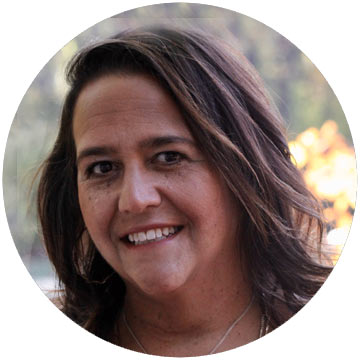
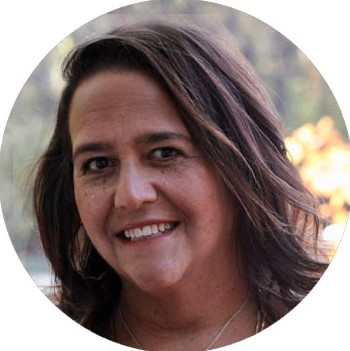
Team member cards

diff --git a/btb-client/src/routes/About.jsx b/btb-client/src/routes/About.jsx
@@ -1,6 +1,6 @@
 import React, { useState } from 'react'
 
-import { Button, Card, Text, } from "@nextui-org/react";
+import { Button, Card, Spacer, Text, } from "@nextui-org/react";
 
 import "../assets/style/about.css"
 import { PageHeader, OrangeBar } from '../components/Bar';
@@ -9,8 +9,15 @@ import nancyMager from "../assets/images/nancy-mager.jpg"
 import ourMethods from "../assets/images/they-feast.jpeg"
 import wall from "../assets/images/about-our-center-wall3.jpg"
 
+import davidKim from "../assets/images/staff/davidKim.jpg"
+import jasonBrown from "../assets/images/staff/jasonBrown.jpg"
+import jessicaReynolds from "../assets/images/staff/jessicaReynolds.jpg"
+import lisaMartinez from "../assets/images/staff/lisaMartinez.jpg"
+import matthewBroderick from "../assets/images/staff/matthewBroderick.jpg"
+import rachelGarcia from "../assets/images/staff/rachelGarcia.jpg"
 
 import { FormModal } from "../components/Forms";
+import { btbOrange } from '../assets/style/colors';
 
 export default function About() {
 
@@ -56,7 +63,7 @@ export default function About() {
             </Text>
           </div>
           <div className="col-xxl-6 col-xl-12" >
-            <img src={homeworkSpace} alt="about-us-homework-space" style={{width: "100%", height: "100%", maxWidth: "80vw" ,objectFit: "cover"}} />
+            <img src={homeworkSpace} className="img-shadow" alt="about-us-homework-space" style={{width: "100%", height: "100%", maxWidth: "80vw" ,objectFit: "cover"}} />
           </div>
         </div>
       </section>
@@ -64,7 +71,7 @@ export default function About() {
       <section className="container-fluid p-5" id="meet-the-team">
         <div className="row d-flex flex-row justify-content-center align-items-center">
           <div className="col-xxl-3 col-xl-6">
-            <img src={nancyMager} alt="nancy-mager" />
+            <img src={nancyMager} className="img-shadow img-round" alt="nancy-mager" />
           </div>
           <div className="col-xxl-6 col-xl-12 about-text">
               <Text h1 color="primary">
@@ -78,10 +85,16 @@ export default function About() {
               </Text>
           </div>
         </div>
+        <Text h1 color="primary">
+          And our Amazing Staff
+        </Text>
+        <div className="row d-flex flex-row justify-content-center align-items-center">
+          { renderTeam() }
+        </div>
       </section>
       <section className="container-fluid bg-blue" id="our-methods">
         <div className="row">
-          <div className="col-xl-6 col-;g-12 about-text">
+          <div className="col-xl-6 col-lg-12 about-text">
             <Text h1 color="white">
               Our Methods
             </Text>
@@ -93,14 +106,14 @@ export default function About() {
             </Text>
           </div>
           <div className="col-xl-6 d-none d-xl-flex" >
-            <img src={ourMethods} alt="our-methods" style={{height: "100%", width: "50vw", objectFit: "fill"}}/>
+            <img src={ourMethods} className="img-shadow" alt="our-methods" style={{padding: "1rem", height: "100%", width: "50vw", objectFit: "fill"}}/>
           </div>
         </div>
       </section>
       <section className="container-fluid p-5 section-header" id="our-learning-center">
         <div className="row">
           <div className="col-xl-6 col-lg-12" >
-            <img src={wall} alt="about-us-homework-space" style={{width: "auto", height: "100%", objectFit: "cover"}} />
+            <img src={wall} className="img-shadow" alt="about-us-homework-space" style={{width: "auto", height: "100%", objectFit: "cover"}} />
           </div>
           <div className="col-xl-6 col-lg-12 about-text">
             <Text h1 color="primary">
@@ -128,4 +141,81 @@ export default function About() {
       <FormModal open={modalOpen} setOpen={setModalOpen}/>
     </div>
   )
+}
+
+const teamMembers = [
+  {
+    order: 1,
+    name: "Jessica Reynolds",
+    position: "English Tutor",
+    image: jessicaReynolds,
+    bio: "Jessica is an English tutor with a Master's in English Literature. She is passionate about teaching and has been working with students for 7 years. Her focus is on improving students' writing skills and helping them appreciate literature. Jessica believes that good communication skills are essential for success in any field. Outside of the tutoring center, she is an avid reader and loves to write short stories."
+  },
+  {
+    order: 2,
+    name: "David Kim",
+    position: "Science Tutor",
+    image: davidKim,
+    bio: "David is a Science Tutor, specializing in Physics and Chemistry. He has a Master's degree in Chemical Engineering. His scientific background allows him to make science engaging and relatable to students. David has a talent for breaking down complicated concepts into easy-to-understand language. When he’s not teaching, David enjoys tinkering with electronics and playing the guitar."
+  },
+  {
+    order: 6,
+    name: "Lisa Martinez",
+    position: "Administrative Assistant",
+    image: lisaMartinez,
+    bio: "Lisa is the Administrative Assistant and a crucial part of the team. She has been with the center for 3 years, ensuring that operations run efficiently. Her organizational skills and attention to detail keep the center in top shape. Lisa is usually the first point of contact for parents and students, and she’s known for her warm and friendly demeanor. In her leisure time, she enjoys painting and taking nature walks."
+  },
+  {
+    order: 5,
+    name: "Matthew Broderick",
+    position: "Math Tutor",
+    image: matthewBroderick,
+    bio: "Matthew Broderick, renowned for his illustrious career in acting, has joined Beyond The Bell as a Math Tutor. Surprising to many, Matthew has a deep-seated love for mathematics and decided to make a career change to pursue this passion. With his charisma and ability to perform, he makes learning math an incredibly engaging experience for students. He believes in making a difference in the lives of the youth and takes immense joy in witnessing their progress. When not tutoring, he sometimes reminisces about his acting days and shares exciting stories with students and staff."
+  },
+  {
+    order: 4,
+    name: "Jason Brown",
+    position: "SAT/ACT Prep Tutor",
+    image: jasonBrown,
+    bio: "Jason is specialized in SAT and ACT prep, and has been a tutor for over 6 years. He has a degree in Psychology, which he utilizes to understand students' learning patterns and adapt his teaching methods. Jason is passionate about equipping students with the strategies and confidence needed to excel in standardized tests. He is also a basketball enthusiast and coaches a local youth team in his spare time."
+  },
+  {
+    order: 3,
+    name: "Rachel Garcia",
+    position: "Academic Advisor",
+    image: rachelGarcia,
+    bio: "Rachel serves as an Academic Advisor at the center. With a background in Counseling, she plays a vital role in helping students plan their educational path. She believes that proper guidance is essential for students to make informed decisions regarding their academic and career goals. Rachel is also an advocate for mental health and conducts workshops for stress management."
+  }
+]
+
+function renderTeam() {
+
+  const sortedTeamMembers = teamMembers.sort((a, b) => a.order - b.order);
+
+  return sortedTeamMembers.map((teamMember, index) => {
+    return (
+      <Card 
+        isHoverable 
+        isPressable 
+        className="m-2 p-3 d-flex flex-column align-items-center col-xxl-3 col-xl-4 col-md-6 col-sm-12"
+      >
+        <Card.Body className="d-flex flex-row gap-4 align-items-center w-100 justify-content-center">
+          <img src={teamMember.image} alt={teamMember.name} className="img-shadow img-round" style={{width: "10rem", height: "10rem"}}/>
+          <div className="w-100 d-flex flex-column align-items-center">
+            <Text size="$lg" b >
+              {teamMember.name}
+            </Text>
+            <Text>
+              {teamMember.position}
+            </Text>
+          </div>
+        </Card.Body>
+        <Card.Footer className="w-100 d-flex flex-row justify-content-center">
+          <Button bordered>
+            Read More
+          </Button>
+        </Card.Footer>
+      </Card>
+    )
+  })
 }

diff --git a/btb-client/src/routes/Services.jsx b/btb-client/src/routes/Services.jsx
@@ -86,7 +86,7 @@ export default function Services() {
                   </Text>
                 </div>
                 <div className="col-xxl-6 col-xl-12">
-                  <img src={afterSchool} alt="after-school" className="service-image"/>
+                  <img src={afterSchool} alt="after-school" className="service-image img-shadow"/>
                 </div>
               </div>
               <div className="row">
@@ -147,7 +147,7 @@ export default function Services() {
                   </Text>
                 </div>
                 <div className="col-xxl-6 col-xl-12">
-                  <img src={tutoring} alt="private-tutoring" className="service-image"/>
+                  <img src={tutoring} alt="private-tutoring" className="service-image img-shadow"/>
                 </div>
               </div>
               <div className="row">
@@ -203,7 +203,7 @@ export default function Services() {
                   </Text>
                 </div>
                 <div className="col-xxl-6 col-xl-12">
-                  <img src={dyslexia} alt="wilson-tutoring" className="service-image"/>
+                  <img src={dyslexia} alt="wilson-tutoring" className="service-image img-shadow"/>
                 </div>
               </div>
               <div className="row">

diff --git a/btb-client/src/routes/ThankYou.jsx b/btb-client/src/routes/ThankYou.jsx
@@ -1,0 +1,21 @@
+import React from 'react'
+
+import { Text, } from "@nextui-org/react";
+
+import "../assets/style/services.css"
+import { PageHeader, } from '../components/Bar';
+import thankYou from "../assets/images/thankyou.jpg"
+
+export default function ThankYou() {
+  return (
+    <div className="d-flex flex-column align-items-center">
+      <PageHeader text="Thank You" />
+      <section className="d-flex flex-column align-items-center justify-content-center m-5 w-80">
+        <Text>
+          Thank you for contacting us. We look forward to speaking with you and hearing more about how we can be of assistance. We will be in touch with you soon.
+        </Text>
+        <img src={thankYou} alt="thank-you" className="img-shadow"/>
+      </section>
+    </div>
+  )
+}

diff --git a/btb-client/src/App.jsx b/btb-client/src/App.jsx
@@ -9,6 +9,7 @@ import Footer from './components/Footer';
 import About from './routes/About';
 import Services from './routes/Services';
 import Contact from './routes/Contact';
+import ThankYou from './routes/ThankYou';
 
 function App() {
   return (
@@ -21,6 +22,7 @@ function App() {
             <Route path="/about" element={<About />} />
             <Route path="/services" element={<Services />} />
             <Route path="/contact" element={<Contact />} />
+            <Route path="/thank-you" element={<ThankYou />} />
           </Routes>
         </Router>
         <Footer />

diff --git a/btb-client/src/App.css b/btb-client/src/App.css
@@ -75,3 +75,11 @@ footer {
 section {
   scroll-margin-top: 80px;
 }
+
+.img-shadow {
+  filter: drop-shadow(0px 0px 6px black);
+}
+
+.img-round {
+  border-radius: 50%;
+}

diff --git a/btb-client/src/assets/style/services.css b/btb-client/src/assets/style/services.css
@@ -2,5 +2,4 @@
   height: 100%;
   object-fit: cover;
   padding: 1em;
-  filter: drop-shadow(0px 0px 6px black);
 }
